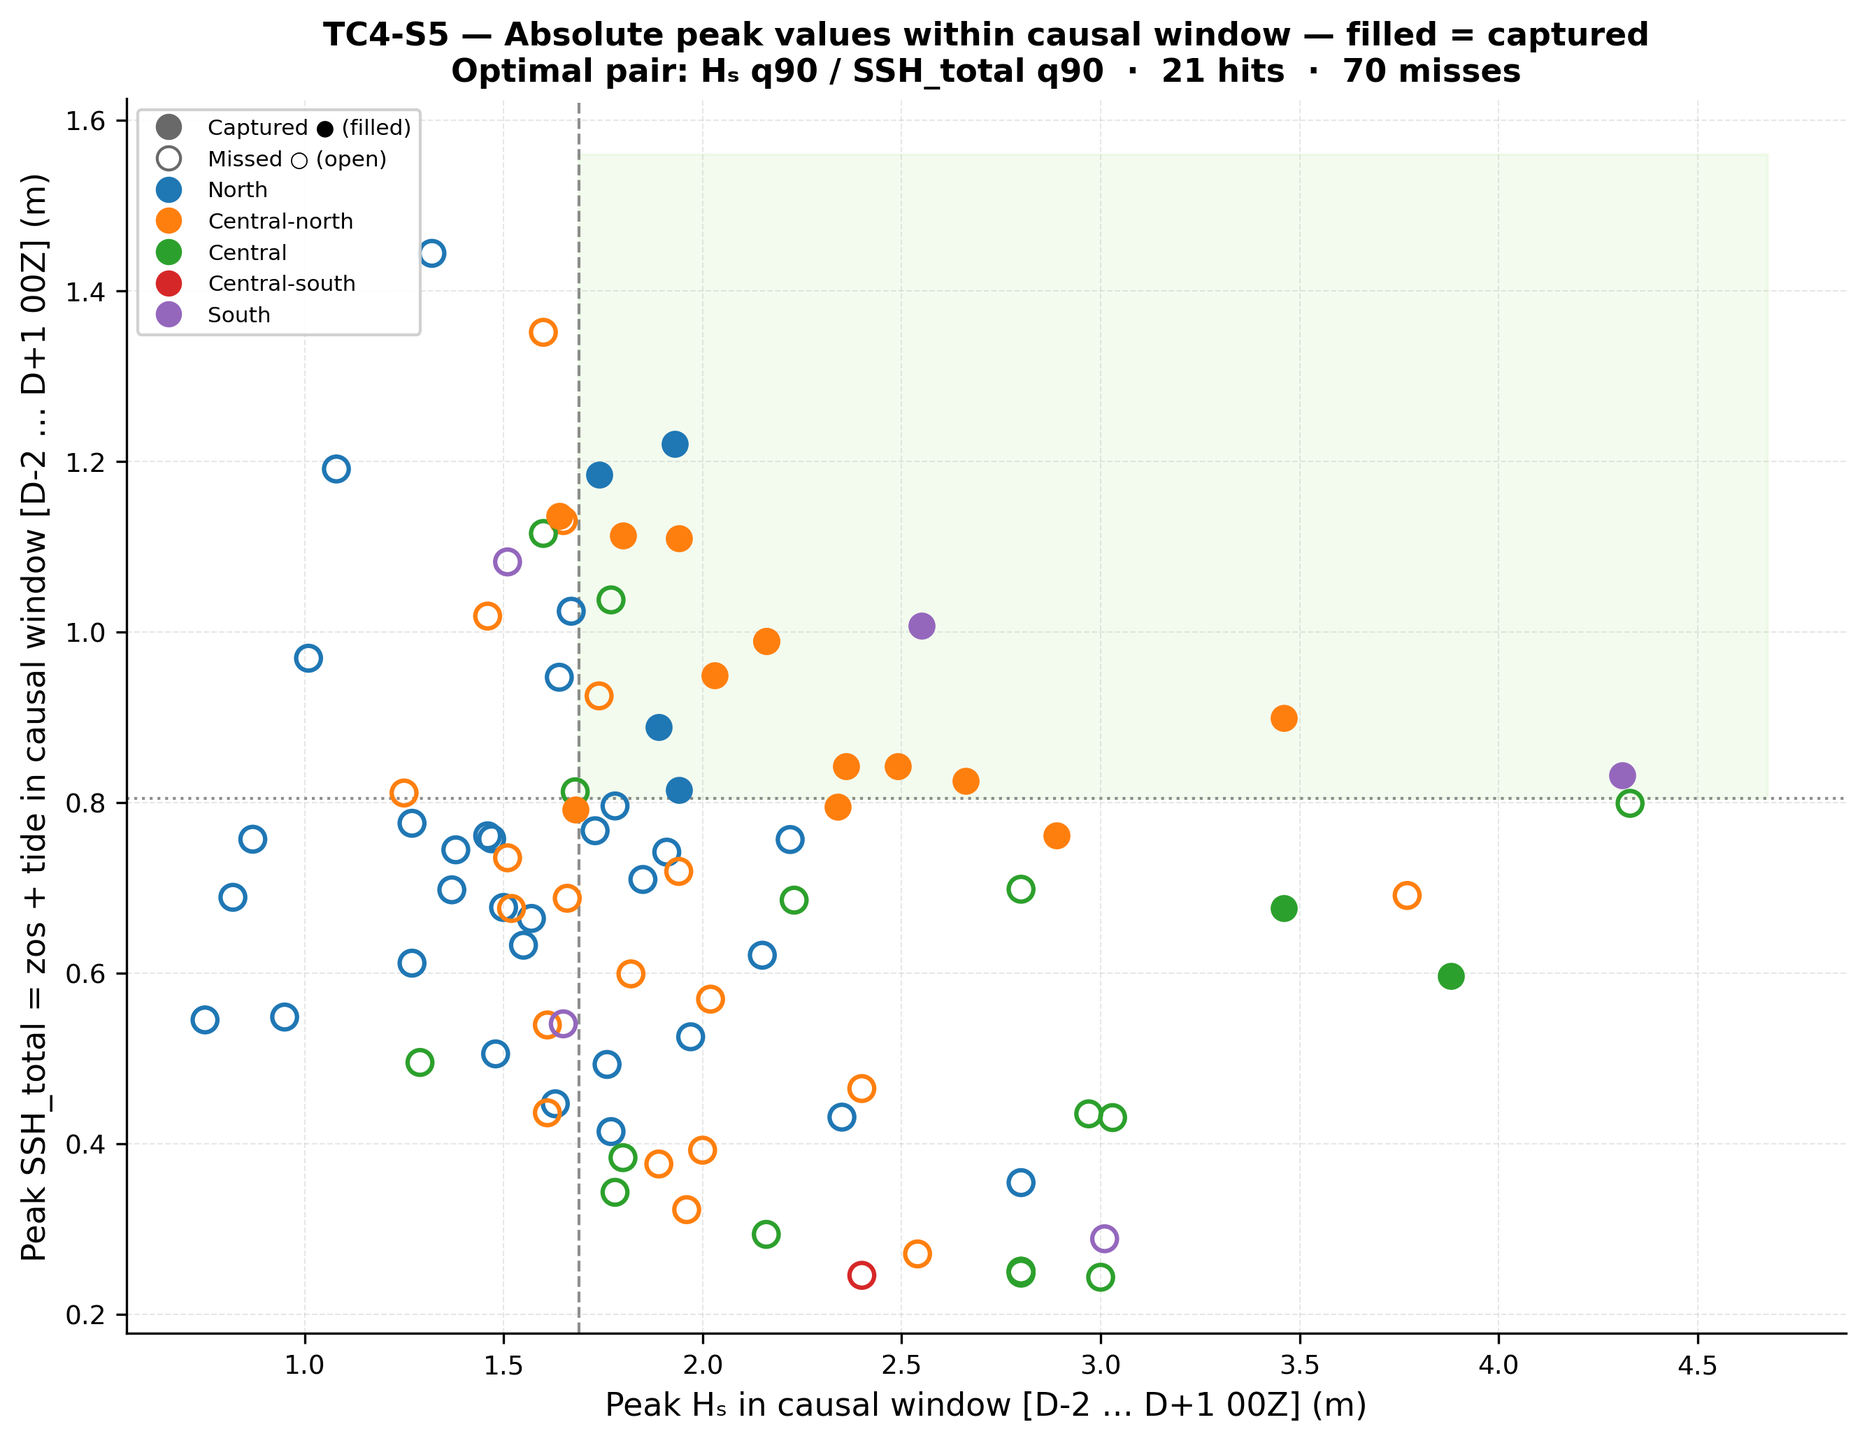
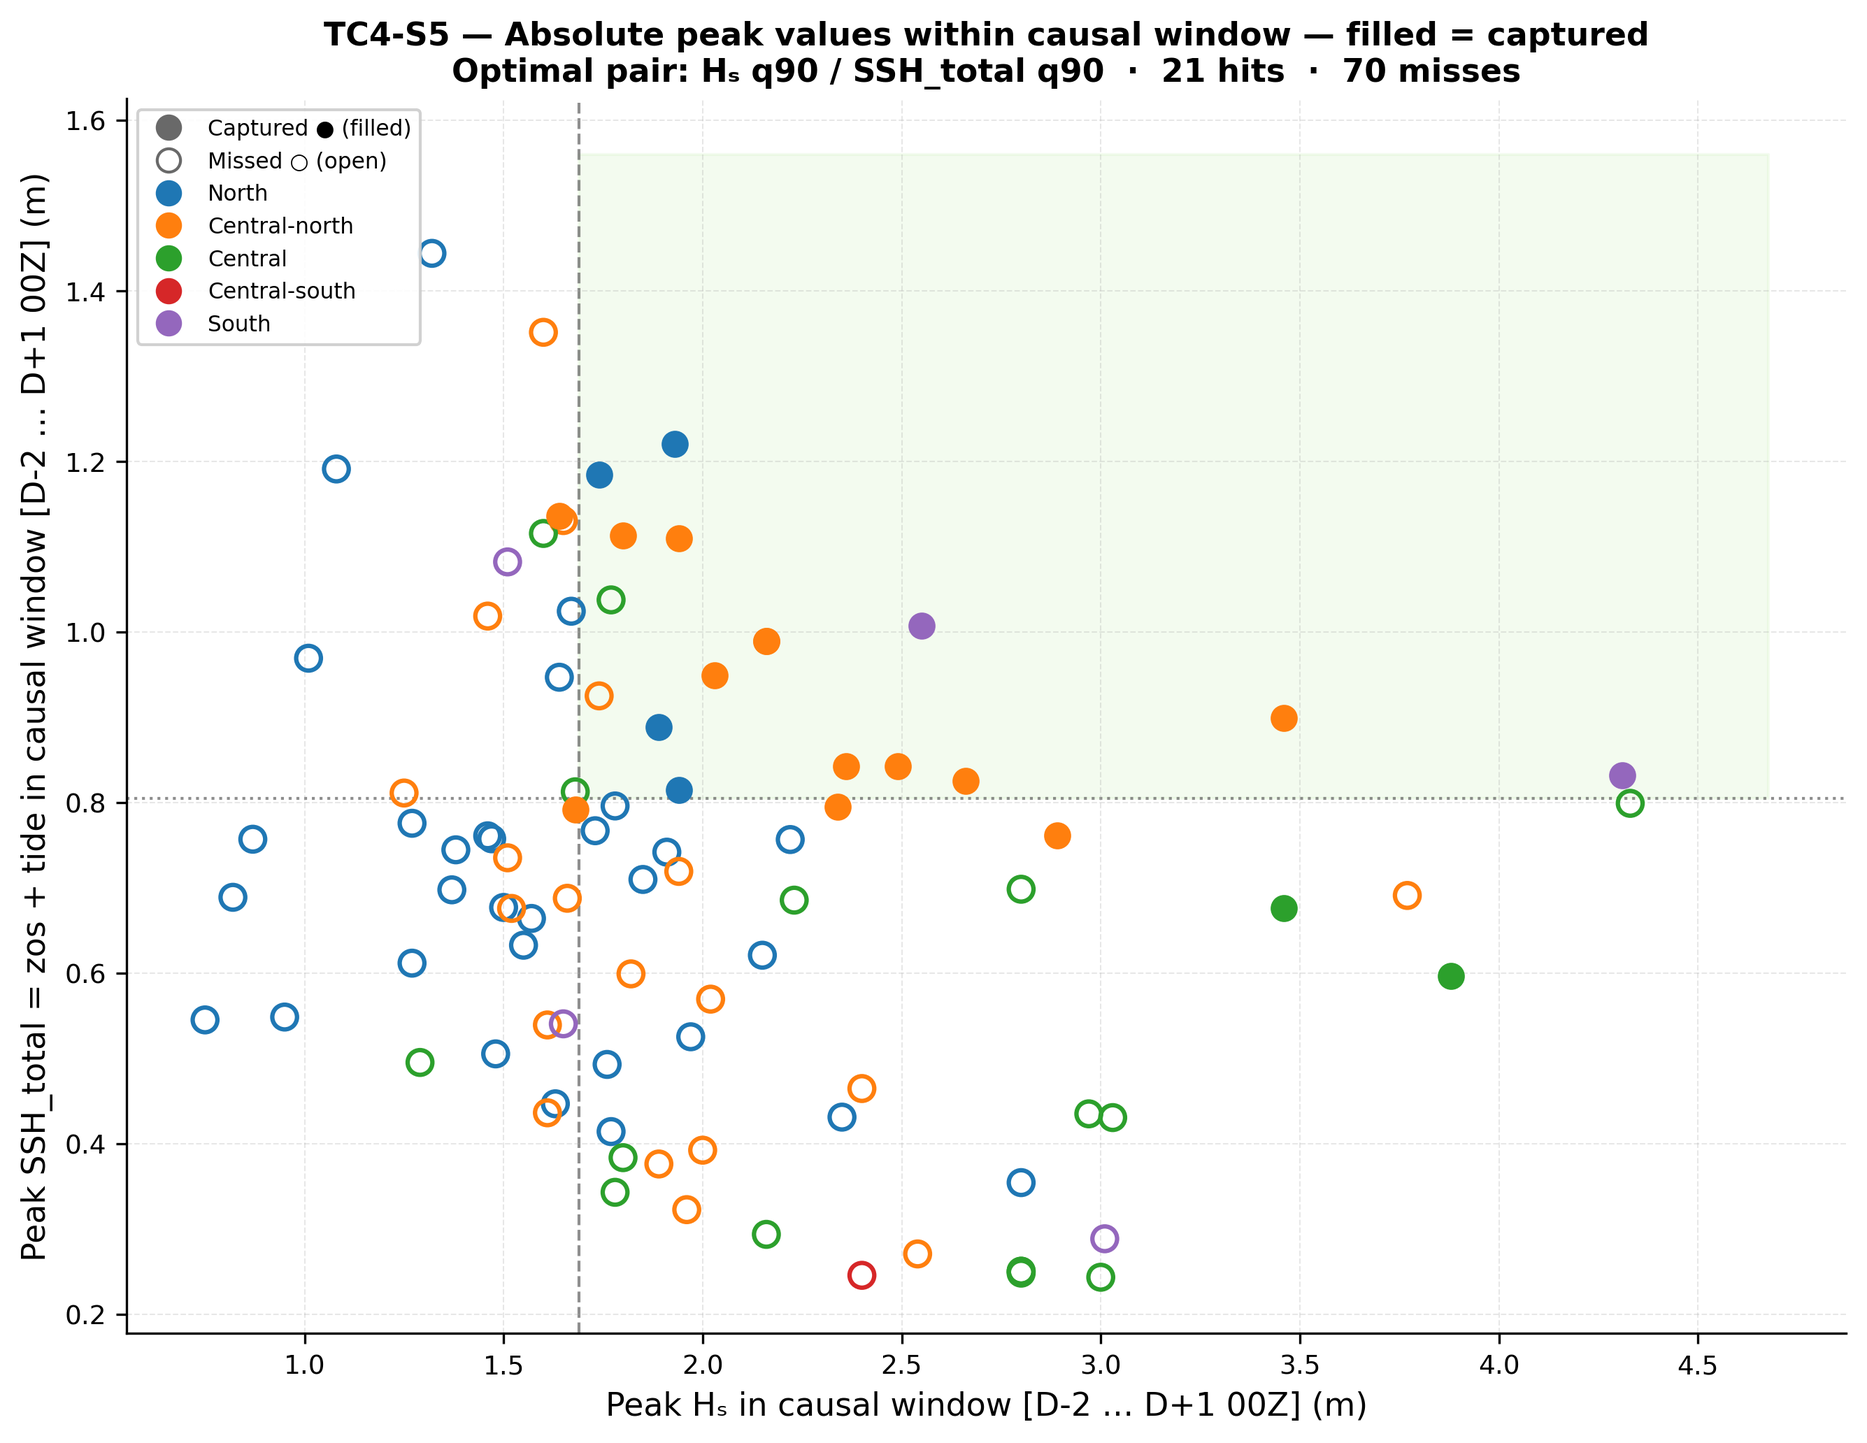
Clarify local threshold diagnostics

Changed region(s): [[0.0622, 0.093, 0.2176, 0.2481], [0.2487, 0.031, 0.2798, 0.062]]

diff --git a/site/app/results/threshold-calibration/csi-scan/page.tsx b/site/app/results/threshold-calibration/csi-scan/page.tsx
@@ -695,8 +695,8 @@ export default function CsiScanPage() {
               maximum SSH_total in the same window. Points are coloured by coastal sector.
               <strong> Filled circles</strong> indicate events captured at the optimal threshold pair;{' '}
               <strong>open circles</strong> are missed events. Dashed reference lines show the
-              median local threshold across all grid points. The green-shaded quadrant marks the
-              region above both median thresholds.
+              median of the grid-point-specific physical thresholds. These fixed lines and the
+              green-shaded quadrant are visual references only; they never enter classification.
             </p>
             <div className="mb-3 rounded-xl border border-amber-200 bg-amber-50 px-4 py-3 text-xs text-amber-800 leading-relaxed">
               <strong>Note:</strong> An event above both threshold lines is not automatically
@@ -721,9 +721,39 @@ export default function CsiScanPage() {
                   reported event. Filled = captured at the optimal pair (Hₛ q{'{'}opt{'}'} /
                   SSH_total q{'{'}opt{'}'}); open = missed. Coloured by coastal sector.
                   Dashed lines: median of local percentile thresholds across all grid points.
-                  Green zone: above both median thresholds simultaneously. Detection requires the
-                  compound condition to hold on the same day — peak values in different variables
-                  on different days do not trigger detection even if both exceed their thresholds.
+                  Each event is actually tested against the two physical q90 values calculated
+                  from the full 1993–2025 series at its associated grid point. Green zone: above
+                  both median references. Detection requires the compound condition to hold on the
+                  same day — peak values on different days do not trigger detection.
+                </p>
+              </div>
+            </div>
+
+            <div className="mt-8 grid gap-6 md:grid-cols-2">
+              <div className="rounded-xl border border-gray-200 bg-white overflow-hidden shadow-sm">
+                <div className="px-5 pt-4">
+                  <span className="text-xs font-semibold text-gray-700">fig_TC4_S6 — Window peak ratios</span>
+                </div>
+                <Image src="/figures/tc4_summary/fig_TC4_S6_window_peak_ratios.png"
+                  alt="Independent window peak values divided by local thresholds"
+                  width={900} height={700} className="w-full h-auto" unoptimized />
+                <p className="border-t border-gray-100 px-5 py-4 text-xs text-gray-500 italic">
+                  Each maximum is divided by that event grid point&apos;s local threshold. The two
+                  maxima can occur on different dates, so this panel is descriptive, not the
+                  operational capture test.
+                </p>
+              </div>
+              <div className="rounded-xl border border-gray-200 bg-white overflow-hidden shadow-sm">
+                <div className="px-5 pt-4">
+                  <span className="text-xs font-semibold text-gray-700">fig_TC4_S7 — Same-day joint ratios</span>
+                </div>
+                <Image src="/figures/tc4_summary/fig_TC4_S7_same_day_joint_ratios.png"
+                  alt="Same-day joint exceedance values divided by local thresholds"
+                  width={900} height={700} className="w-full h-auto" unoptimized />
+                <p className="border-t border-gray-100 px-5 py-4 text-xs text-gray-500 italic">
+                  For each event, the selected date maximises min(Hₛ/T_Hₛ,
+                  SSH_total/T_SSH) within [D-2, D+1]. Captures must reach or exceed 1.0 on
+                  both axes; every miss fails at least one local threshold.
                 </p>
               </div>
             </div>

diff --git a/src/02_threshold_calibration/04_csi_grid_scan/summary.py b/src/02_threshold_calibration/04_csi_grid_scan/summary.py
@@ -36,14 +36,116 @@ from __future__ import annotations
 import logging
 from pathlib import Path
 
+import numpy as np
 import pandas as pd
 
 from src.threshold_calibration.config.analysis_config import CFG
 from src.threshold_calibration.figures import run_figures
 from src.threshold_calibration.event_figures import run_event_figures
 from src.threshold_calibration.metrics import build_event_hit_table, capture_lag_summary
+from src.threshold_calibration.calibration import _local_threshold
+from src.threshold_calibration.windows import build_causal_window
 
 log = logging.getLogger(__name__)
+
+
+def build_local_threshold_audits(
+    records: list,
+    ssh_total_cache: dict,
+    df_event_hits_opt: pd.DataFrame,
+    optimal: dict,
+    time_index: pd.DatetimeIndex,
+) -> tuple[pd.DataFrame, pd.DataFrame]:
+    """Build event- and grid-level proof of the local-threshold calculation.
+
+    The values are recomputed from the same full climatological series and with
+    the same helper used by the operational hit/miss and false-alarm paths.
+    ``time_index`` is used only to construct the causal window; it is never used
+    to truncate the climatology from which thresholds are estimated.
+    """
+    hs_pct = float(optimal["thr_hs_pct"])
+    ssh_pct = float(optimal["thr_ssh_pct"])
+    hit_by_idx = df_event_hits_opt.set_index("event_idx").to_dict("index")
+    rows: list[dict] = []
+
+    for rec in records:
+        key = (round(float(rec.grid_lat), 6), round(float(rec.grid_lon), 6))
+        ssh = ssh_total_cache.get(key, pd.Series(dtype=float))
+        hs_finite = rec.hs_clim.dropna()
+        ssh_finite = ssh.dropna()
+        thr_hs = _local_threshold(rec.hs_clim, hs_pct)
+        thr_ssh = _local_threshold(ssh, ssh_pct)
+        window = pd.DatetimeIndex(build_causal_window(rec.date, time_index))
+        hs_win = rec.hs_clim.reindex(window)
+        ssh_win = ssh.reindex(window)
+        valid_both = hs_win.notna() & ssh_win.notna()
+
+        peak_hs_date = hs_win.idxmax() if hs_win.notna().any() else pd.NaT
+        peak_ssh_date = ssh_win.idxmax() if ssh_win.notna().any() else pd.NaT
+        peak_hs = float(hs_win.max()) if hs_win.notna().any() else np.nan
+        peak_ssh = float(ssh_win.max()) if ssh_win.notna().any() else np.nan
+
+        hs_ratio = hs_win / thr_hs if np.isfinite(thr_hs) and thr_hs != 0 else hs_win * np.nan
+        ssh_ratio = ssh_win / thr_ssh if np.isfinite(thr_ssh) and thr_ssh != 0 else ssh_win * np.nan
+        joint_score = pd.concat([hs_ratio, ssh_ratio], axis=1).min(axis=1, skipna=False)
+        joint_score = joint_score[valid_both]
+        simultaneous_date = joint_score.idxmax() if joint_score.notna().any() else pd.NaT
+        hit = hit_by_idx.get(rec.event_idx, {})
+
+        rows.append({
+            "event_idx": rec.event_idx,
+            "event_identifier": f"TC4-E{int(rec.disaster_id):03d}-{int(rec.event_idx):03d}",
+            "disaster_id": rec.disaster_id,
+            "event_date": rec.date,
+            "municipality": rec.municipality,
+            "sector": hit.get("coastal_sector", ""),
+            "grid_lat": float(rec.grid_lat),
+            "grid_lon": float(rec.grid_lon),
+            "hs_percentile_level": hs_pct,
+            "local_hs_threshold_m": thr_hs,
+            "ssh_total_percentile_level": ssh_pct,
+            "local_ssh_total_threshold_m": thr_ssh,
+            "hs_reference_start": hs_finite.index.min() if not hs_finite.empty else pd.NaT,
+            "hs_reference_end": hs_finite.index.max() if not hs_finite.empty else pd.NaT,
+            "ssh_total_reference_start": ssh_finite.index.min() if not ssh_finite.empty else pd.NaT,
+            "ssh_total_reference_end": ssh_finite.index.max() if not ssh_finite.empty else pd.NaT,
+            "n_valid_hs_observations": int(len(hs_finite)),
+            "n_valid_ssh_total_observations": int(len(ssh_finite)),
+            "n_valid_joint_window_observations": int(valid_both.sum()),
+            "window_peak_hs_m": peak_hs,
+            "window_peak_hs_date": peak_hs_date,
+            "window_peak_ssh_total_m": peak_ssh,
+            "window_peak_ssh_total_date": peak_ssh_date,
+            "window_peak_hs_ratio": peak_hs / thr_hs if np.isfinite(thr_hs) else np.nan,
+            "window_peak_ssh_total_ratio": peak_ssh / thr_ssh if np.isfinite(thr_ssh) else np.nan,
+            "max_min_ratio_date": simultaneous_date,
+            "max_min_hs_m": float(hs_win.get(simultaneous_date, np.nan)),
+            "max_min_ssh_total_m": float(ssh_win.get(simultaneous_date, np.nan)),
+            "max_min_hs_ratio": float(hs_ratio.get(simultaneous_date, np.nan)),
+            "max_min_ssh_total_ratio": float(ssh_ratio.get(simultaneous_date, np.nan)),
+            "capture_day": hit.get("capture_time", pd.NaT),
+            "hs_at_capture_m": hit.get("hs_at_capture", np.nan),
+            "ssh_total_at_capture_m": hit.get("ssh_total_at_capture", np.nan),
+            "captured": bool(hit.get("captured", False)),
+        })
+
+    events = pd.DataFrame(rows)
+    grid_cols = [
+        "grid_lat", "grid_lon", "hs_percentile_level", "local_hs_threshold_m",
+        "ssh_total_percentile_level", "local_ssh_total_threshold_m",
+        "hs_reference_start", "hs_reference_end", "ssh_total_reference_start",
+        "ssh_total_reference_end", "n_valid_hs_observations",
+        "n_valid_ssh_total_observations",
+    ]
+    grids = events[grid_cols].drop_duplicates(subset=["grid_lat", "grid_lon"]).copy()
+    muni_by_grid = (
+        events.groupby(["grid_lat", "grid_lon"])["municipality"]
+        .agg(lambda values: " | ".join(sorted(set(values))))
+        .rename("municipalities")
+        .reset_index()
+    )
+    grids = muni_by_grid.merge(grids, on=["grid_lat", "grid_lon"], how="left")
+    return events, grids
 
 
 def _save_csv(df: pd.DataFrame, name: str) -> None:
@@ -100,6 +202,17 @@ def run_summary(
     ].copy()
     _save_csv(df_event_hits_opt, "tab_TC4_event_hits_optimal")
 
+    # Explicit audit of the physical local thresholds and same-day capture rule.
+    df_threshold_audit = None
+    if records is not None and ssh_total_cache is not None and time_index is not None:
+        df_event_audit, df_grid_audit = build_local_threshold_audits(
+            records, ssh_total_cache, df_event_hits_opt, optimal,
+            pd.DatetimeIndex(time_index),
+        )
+        _save_csv(df_event_audit, "tab_TC4_event_threshold_audit")
+        _save_csv(df_grid_audit, "tab_TC4_grid_threshold_audit")
+        df_threshold_audit = df_event_audit
+
     # Optimal pair summary row
     opt_df = pd.DataFrame([optimal])
     _save_csv(opt_df, "tab_TC4_optimal_pair")
@@ -130,7 +243,8 @@ def run_summary(
                 df_muni_ref=df_muni_ref, df_events_meta=df_events_meta,
                 df_fa_per_muni=fa_per_muni_df,
                 records=records,
-                ssh_total_cache=ssh_total_cache)
+                ssh_total_cache=ssh_total_cache,
+                df_threshold_audit=df_threshold_audit)
 
     # ── Per-event time-series figures ─────────────────────────────────────────
     if records is not None and ssh_total_cache is not None:

diff --git a/src/02_threshold_calibration/04_csi_grid_scan/figures.py b/src/02_threshold_calibration/04_csi_grid_scan/figures.py
@@ -13,6 +13,8 @@ TC4-S3  Capture lag distribution (D-2 / D-1 / D / D+1 00Z)
 TC4-S4  CSI, FAR, POD by coastal sector at optimal pair
 TC4-S5  Peak Hₛ vs peak SSH_total scatter — absolute maxima within causal window,
         coloured by sector, filled = captured at optimal pair (open = missed)
+TC4-S6  Normalised, independently selected window-peak ratios
+TC4-S7  Normalised same-day values maximising min(Hₛ/T_Hₛ, SSH_total/T_SSH)
 TC4-M1  Municipality hit-rate heatmap (city × threshold pair)
 TC4-M2  Municipality miss-rate heatmap (city × threshold pair)
 TC4-M3  Municipality false-alarm heatmap (city × threshold pair)
@@ -1040,6 +1042,70 @@ def plot_peak_scatter(
     return fig
 
 
+def plot_normalized_threshold_audit(
+    audit: pd.DataFrame,
+    same_day: bool,
+    optimal: dict,
+) -> plt.Figure:
+    """Plot event values relative to their own grid-point thresholds."""
+    from matplotlib.lines import Line2D
+    from config.plot_config import apply_publication_style
+
+    apply_publication_style()
+    if same_day:
+        x_col, y_col = "max_min_hs_ratio", "max_min_ssh_total_ratio"
+        code = "TC4-S7"
+        title = "Same-day joint-exceedance diagnostic"
+        note = "One date/event: date maximising min(Hₛ/T_Hₛ, SSH_total/T_SSH)"
+    else:
+        x_col, y_col = "window_peak_hs_ratio", "window_peak_ssh_total_ratio"
+        code = "TC4-S6"
+        title = "Independent window-peak ratios"
+        note = "Variable maxima may occur on different dates"
+
+    data = audit.dropna(subset=[x_col, y_col]).copy()
+    fig, ax = plt.subplots(figsize=(9, 7))
+    x_hi = max(1.01, data[x_col].max() * 1.06)
+    y_hi = max(1.01, data[y_col].max() * 1.06)
+    ax.fill_betweenx([1, y_hi], 1, x_hi, color="#d0f0c0", alpha=0.18, zorder=0)
+    ax.axvline(1, color="dimgray", ls="--", lw=1.1)
+    ax.axhline(1, color="dimgray", ls=":", lw=1.1)
+
+    for sector, color in SECTOR_COLORS.items():
+        sector_data = data[data["sector"] == sector]
+        miss = sector_data[~sector_data["captured"]]
+        hit = sector_data[sector_data["captured"]]
+        ax.scatter(miss[x_col], miss[y_col], facecolors="none", edgecolors=color,
+                   linewidths=1.5, s=72, zorder=2)
+        ax.scatter(hit[x_col], hit[y_col], facecolors=color, edgecolors=color,
+                   linewidths=0.8, s=72, zorder=3)
+
+    marker_handles = [
+        Line2D([0], [0], marker="o", linestyle="none", markerfacecolor="dimgray",
+               markeredgecolor="dimgray", label="Captured (filled)"),
+        Line2D([0], [0], marker="o", linestyle="none", markerfacecolor="none",
+               markeredgecolor="dimgray", label="Missed (open)"),
+    ]
+    sector_handles = [
+        Line2D([0], [0], marker="o", linestyle="none", markerfacecolor=color,
+               markeredgecolor=color, label=sector)
+        for sector, color in SECTOR_COLORS.items()
+        if (data["sector"] == sector).any()
+    ]
+    ax.legend(handles=marker_handles + sector_handles, fontsize=7.5,
+              loc="upper left", framealpha=0.9)
+    ax.set_xlabel("Hₛ / local Hₛ threshold")
+    ax.set_ylabel("SSH_total / local SSH_total threshold")
+    ax.set_title(
+        f"{code} — {title}\n{note} · q{round(optimal['thr_hs_pct']*100)}/"
+        f"q{round(optimal['thr_ssh_pct']*100)}",
+        fontsize=STYLE.font_size_title, fontweight="bold",
+    )
+    ax.grid(True, alpha=0.3, lw=0.5)
+    fig.tight_layout()
+    return fig
+
+
 def run_figures(
     df_metrics: pd.DataFrame,
     df_event_hits: pd.DataFrame,
@@ -1050,6 +1116,7 @@ def run_figures(
     df_fa_per_muni: pd.DataFrame | None = None,
     records: list | None = None,
     ssh_total_cache: dict | None = None,
+    df_threshold_audit: pd.DataFrame | None = None,
 ) -> None:
     """Generate and save all Step 3b figures.
 
@@ -1109,6 +1176,12 @@ def run_figures(
         save_fig(fig_s5, "fig_TC4_S5_peak_scatter", subdir="summary")
     else:
         log.info("  Skipping TC4-S5 (records or ssh_total_cache not provided).")
+
+    if df_threshold_audit is not None and not df_threshold_audit.empty:
+        fig_s6 = plot_normalized_threshold_audit(df_threshold_audit, False, optimal)
+        save_fig(fig_s6, "fig_TC4_S6_window_peak_ratios", subdir="summary")
+        fig_s7 = plot_normalized_threshold_audit(df_threshold_audit, True, optimal)
+        save_fig(fig_s7, "fig_TC4_S7_same_day_joint_ratios", subdir="summary")
 
     # ── TC4-M1/M2/M3: Municipality spatial heatmaps ────────────────────────
     muni_order = _build_municipality_order(df_event_hits, df_muni_ref)

diff --git a/src/02_threshold_calibration/04_csi_grid_scan/README.md b/src/02_threshold_calibration/04_csi_grid_scan/README.md
@@ -91,3 +91,16 @@ See `RUN.md` for the complete output list. The key outputs are:
 - `tab_TC4_event_hits_optimal.csv` — per-event hit/miss at the optimal pair
 - `tab_TC4_optimal_pair.csv` — diagnostic optimal threshold pair (used by Step 2e for comparison only; NOT used by Step 3)
 - `fig_TC4_H1_csi_heatmap.png` — CSI across all threshold pairs (primary diagnostic figure)
+- `fig_TC4_S5_peak_scatter.png` — absolute causal-window maxima; fixed lines are medians of local thresholds and are visual references only
+- `fig_TC4_S6_window_peak_ratios.png` — independent Hₛ and SSH_total window maxima normalised by each event grid point's own threshold (maxima may be asynchronous)
+- `fig_TC4_S7_same_day_joint_ratios.png` — same-day ratios on the date maximising `min(Hₛ/T_Hₛ, SSH_total/T_SSH)`; this directly diagnoses the capture rule
+
+Audit tables:
+
+- `tab_TC4_event_threshold_audit.csv` — event/grid association, local physical thresholds, full reference-period coverage, window maxima and dates, same-day diagnostic values, capture day and status
+- `tab_TC4_grid_threshold_audit.csv` — one row per unique grid point, proving the spatial variability of the q90 physical thresholds
+
+The percentile pair (currently q90/q90) is selected globally, but its physical
+thresholds in metres are computed independently from the full finite climatology
+at every associated grid point. Capture requires both local thresholds to be met
+on the same admissible day. No cross-grid median is used in event classification.
